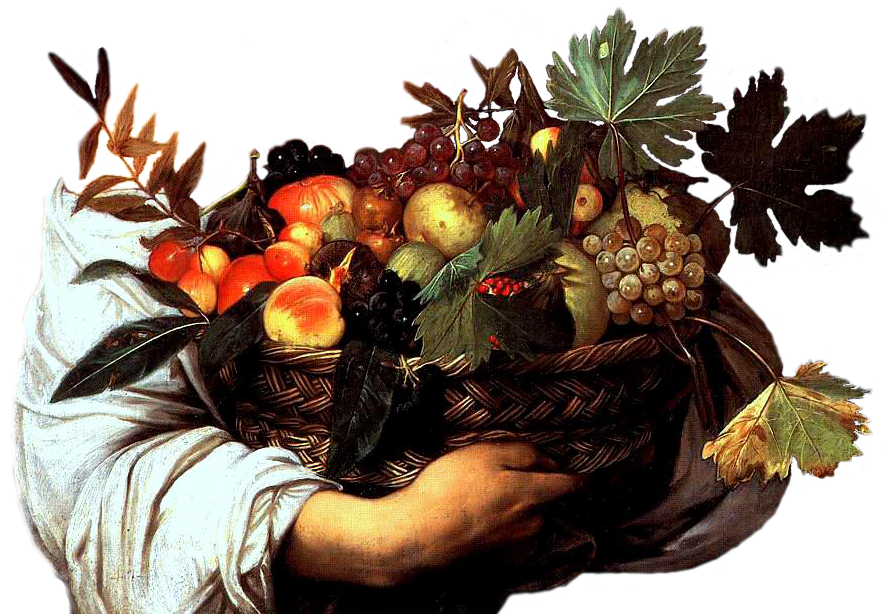
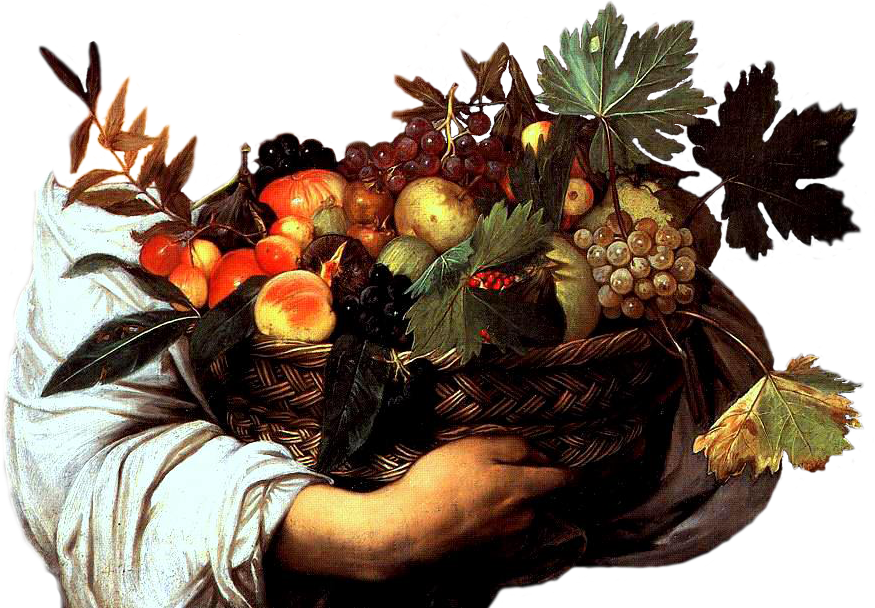
add maskToBounds for the newpaintingviews

diff --git a/Approp/ToolboxViewController.m b/Approp/ToolboxViewController.m
@@ -90,7 +90,7 @@
     UIImageView *newPaintingView = [[UIImageView alloc] initWithImage:[UIImage imageNamed:[paintingsInfo objectForKey:@"image_top"]]];
     
     newPaintingView.contentMode = UIViewContentModeScaleAspectFit;
-    //newPaintingView.clipsToBounds = YES; (does this do anything?)
+
     CGRect frame = newPaintingView.frame;
     frame.size.height = 200;
     frame.size.width = 200;
@@ -103,6 +103,7 @@
     
     [self.theNewPaintingView addSubview:[paintingNumber objectAtIndex:([paintingNumber count]-1)]];
     
+    self.theNewPaintingView.layer.masksToBounds = YES;
 }
 
 #pragma mark - Gesture Recognizers
